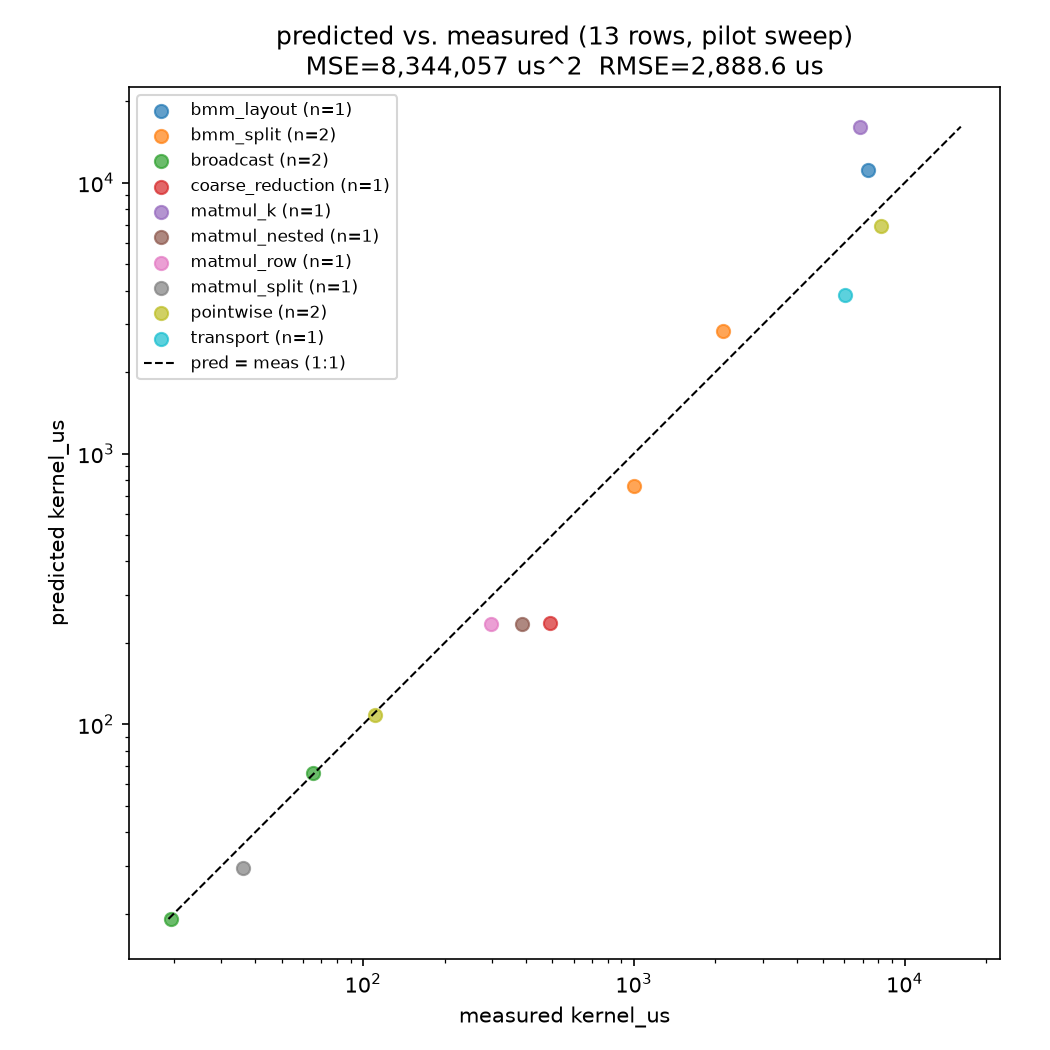
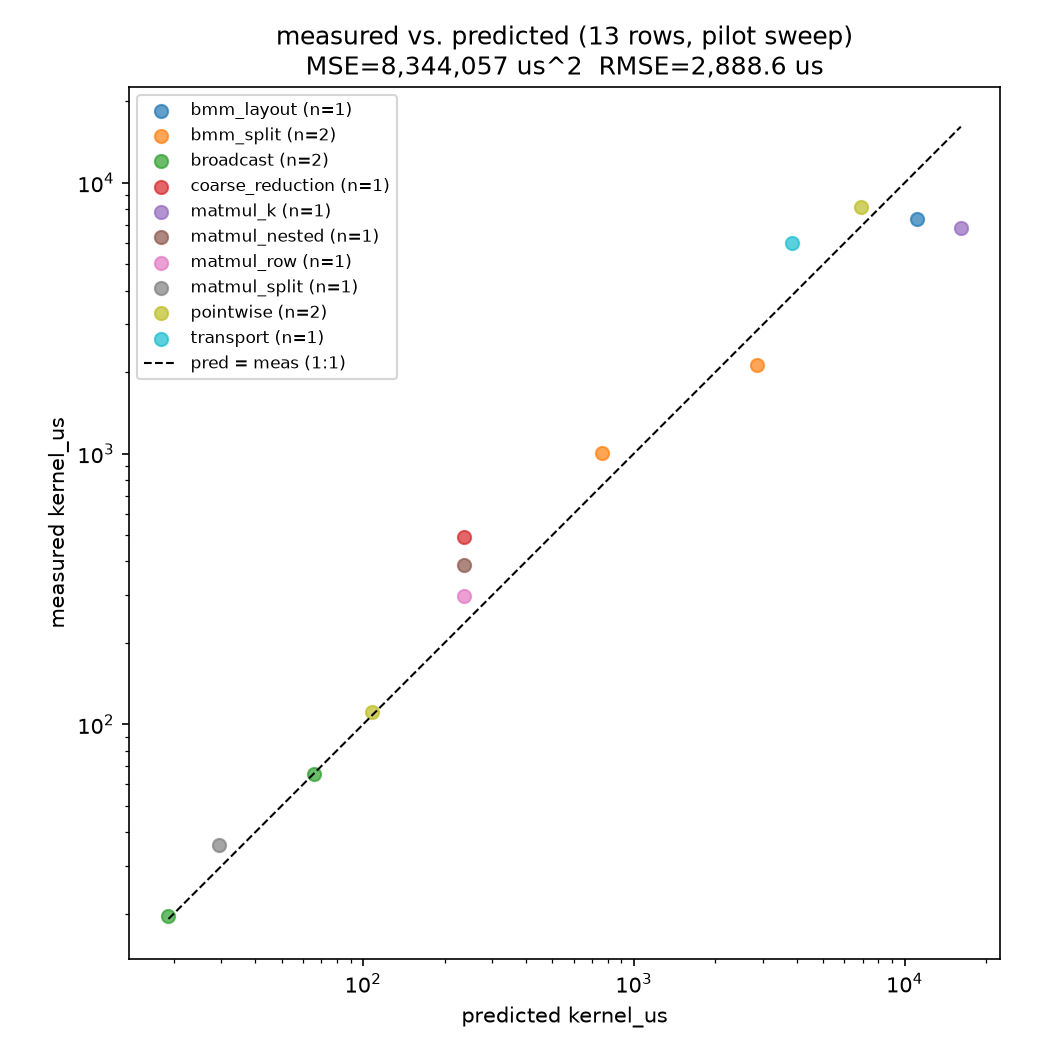
docs(compiler): swap plot axes, add open items, trim co_optimizer/cost_model overlap
- eval_model.py: swap --plot's axes so predicted is x, measured is y
  (previously the other way around), and regenerate the pilot-sweep
  example image to match.
- co_optimizer.md: add an "Open items on this measure/score/plot loop"
  subsection with four forward-looking notes, each verified against the
  code rather than asserted: sweep_plan.json has no coverage/weighting
  analysis (it's a dedup of whatever got historically measured, skewed
  toward mmwd at 281/1632 configs); landing coarse tiling's co-optimizer
  support won't automatically gain sweep coverage (checked directly
  against the pr-4767/4768/4456..4894 branches -- none touch the sweep
  tooling); a learned/MLP cost model is a clean, unexplored direction,
  weighed against the one related attempt the codebase already tried
  and rejected (an unstable fitted correction term, noted in
  cost_model.md's "Two limitations"); and no mechanism memoizes a
  co-optimizer solve across compiles today, distinct from kernel_cache.py
  (which hashes the already-resolved OpSpec/LoopSpec tree, not an input
  that could look a prior solve up).
- Trim co_optimizer.md's overlap with cost_model.md: the sweep-plan
  description and the RMS%-vs-MSE rationale were restating content
  cost_model.md already covers (its tool table, its Accuracy section's
  rank-correlation note) rather than adding a co-optimizer-specific
  angle. Replaced with a tighter pointer into cost_model.md's existing
[…]

diff --git a/tools/cost_model/eval_model.py b/tools/cost_model/eval_model.py
@@ -468,7 +468,7 @@ def plot_scatter(evaluated, out_path):
 
     by_cat = {}
     for r, pred, meas, _err, _src in evaluated:
-        by_cat.setdefault(category(r["op"]), []).append((meas, pred))
+        by_cat.setdefault(category(r["op"]), []).append((pred, meas))
 
     fig, ax = plt.subplots(figsize=(7, 7))
     for c in sorted(by_cat):
@@ -492,10 +492,10 @@ def plot_scatter(evaluated, out_path):
 
     ax.set_xscale("log")
     ax.set_yscale("log")
-    ax.set_xlabel("measured kernel_us")
-    ax.set_ylabel("predicted kernel_us")
+    ax.set_xlabel("predicted kernel_us")
+    ax.set_ylabel("measured kernel_us")
     ax.set_title(
-        f"predicted vs. measured ({len(evaluated)} rows)\nMSE={mse:,.0f} us^2  RMSE={rmse:,.1f} us"
+        f"measured vs. predicted ({len(evaluated)} rows)\nMSE={mse:,.0f} us^2  RMSE={rmse:,.1f} us"
     )
     ax.legend(fontsize=7, loc="upper left")
     ax.set_aspect("equal", adjustable="box")

diff --git a/docs/source/compiler/co_optimizer.md b/docs/source/compiler/co_optimizer.md
@@ -386,36 +386,18 @@ needing to know which flags produced it.
 ### Keeping the model honest: recalibrating against real hardware
 
 [Measuring, scoring and refreshing the model](cost_model.md#measuring-scoring-and-refreshing-the-model)
-is the real workflow this subsection builds on — read it first. In short: `profile_ops.py`
-measures one op under `torch.profiler` and prints a parseable summary; `run_cost_model_sweep.py`
-drives it over `tools/cost_model/sweep_plan.json`'s 1632 configurations and folds the result
-into `tools/cost_model/sweep_records.json` (not committed — it's measured device time, so it
-belongs to the machine and build that produced it); `tools/cost_model/eval_model.py` then
-scores any model version against that database with no hardware involved, reporting RMS% of
-relative error per op category (the table in
-[Accuracy](cost_model.md#accuracy): 5.0% for broadcast up to 29.8% for matmul-split).
+is the real workflow this subsection builds on — read it first for the full `profile_ops.py` →
+`run_cost_model_sweep.py` → `sweep_records.json` → `eval_model.py` pipeline, what
+`sweep_plan.json`'s 1632 configurations cover, and the [Accuracy](cost_model.md#accuracy)
+table (5.0% RMS for broadcast up to 29.8% for matmul-split). The co-optimizer adds nothing to
+that pipeline itself — it's the same model, same database, same scorer — so what follows is
+only the parts specific to using it from here: a visual complement to the RMS% table, and two
+co-optimizer-specific gaps the measure/score loop doesn't by itself cover (whether a forced
+hint is honored, and whether the sweep plan tracks what the co-optimizer actually needs).
 
-`sweep_plan.json` is a list of **environments, not measurements** — each entry is the
-`profile_ops.py` env-var invocation for one configuration (`BENCH_OP`, shape knobs like
-`BENCH_ROWS`/`BENCH_COLS`/`BENCH_N`/`BENCH_B`, `SENCORES`, coarse-tiling via `BENCH_TILES`/
-`LX_PLANNING`, and, where the kernel needs one, an explicit work-division or layout override
-via `WD_M`/`WD_N`/`WD_K`/`WD_B`/`WD_LAYOUT_A`/`WD_LAYOUT_B` or a flash-attention shape via
-`FA_H`/`FA_LQ`/`FA_LK`/`FA_D`). It spans around 40 distinct kernels across every category the
-accuracy table scores: pointwise (`add`, `neg`, `gelu`, broadcast variants), reductions
-(`sumrow`, `amax`, `mean`), transport (`copy`, `transpose`, `cat0`/`cat1`), softmax (plain,
-row-tiled, unrolled), and the matmul/bmm family under several work-division and coarse-tiling
-variants (`mmwd`, `matmul_row_tiling`, `bmm_wd`, `bmm_k_tiling`, …), plus a handful of flash-
-attention configurations. Being an environment list rather than a frozen measurement set means
-it is small, portable, and reproducible on new hardware or after a compiler change — re-running
-it is what regenerates `sweep_records.json` from scratch.
-
-That RMS%-of-relative-error metric is deliberately not a plain MSE in time units — a 5 µs error
-on a 10 µs kernel and a 500 µs error on a 1 ms kernel both read as the same 50%, which is what
-you want when the model is used to *rank* candidate plans against each other rather than to
-predict a wall-clock number (see Accuracy's note on rank correlation surviving the model's
-systematic under-prediction). `eval_model.py --plot <path.png>` adds the complementary view: a
-log-log scatter of predicted vs. measured `kernel_us`, one point per scored row, colored by
-category, with the 1:1 line and the overall MSE/RMSE **in time units** annotated —
+`eval_model.py --plot <path.png>` is that visual complement: a log-log scatter of predicted
+vs. measured `kernel_us`, one point per scored row, colored by category, with the 1:1 line and
+the overall MSE/RMSE **in time units** annotated —
 
 ```bash
 python3 tools/cost_model/eval_model.py --plot /tmp/before.png   # before a cost_model.py edit
@@ -468,6 +450,59 @@ without erroring. Fixed in `parse_sweep_logs.py` — new patterns match the curr
 run) when the older debug-only `op_it_space_splits` text isn't present. The parser now also
 warns on any row where the two disagree, so a hint that silently failed to take shows up as a
 loud warning instead of a quietly wrong measurement.
+
+#### Open items on this measure/score/plot loop
+
+- **Audit `sweep_plan.json`'s own coverage.** The plan is generated by deduplicating
+  whatever configurations happen to already have measurements
+  (`run_cost_model_sweep.py`'s `_configs()`, driven by `_env_from_record`) — there is no
+  code anywhere that checks the result for balance. The current skew (`mmwd` alone is 281
+  of 1632 configs; several categories in the [Accuracy](cost_model.md#accuracy) table rest
+  on a handful of rows) is therefore an artifact of what got measured historically, not a
+  deliberate weighting choice. Before leaning on the per-category RMS% numbers for a real
+  decision, re-derive what coverage and weighting the model actually *needs* — per
+  category, per shape range, per core count — and check the plan against that, rather than
+  assuming today's distribution reflects anyone's intent.
+- **New co-optimized axes need their own sweep configs, deliberately added.** Landing
+  coarse tiling's solver-chosen search (the CP-SAT `predict_frame`/`pr-4767`/`pr-4768` and
+  SA `pr-4456` through `pr-4894` stacks described above) will not automatically get swept: checked
+  directly against those branches, none of them touch `profile_ops.py`,
+  `tools/cost_model/sweep_plan.json`, or `eval_model.py` — the new tiling-candidate
+  machinery has no sweep knob of its own yet, the same way `WD_M`/`WD_N`/`WD_K` is `mmwd`'s
+  knob for forced work-division splits today. Combined with the point above (no automatic
+  coverage check), a new optimization axis landing without a deliberate sweep-plan update
+  is a real way for that axis's prediction accuracy to go unmeasured indefinitely rather
+  than loudly missing.
+- **Could the model tune itself?** Today, fitting is manual: someone reads
+  `eval_model.py`'s RMS% table and `--plot` scatter, forms a hypothesis, edits a constant
+  or term in `cost_model.py`, and re-scores. Every constant in `CostParams` already carries
+  its own fitting provenance in the module docstring (e.g. `alpha ~0.00574 ns/byte,
+  calibrated so a balanced 1R+1W read lands at its measured ~105 GB/s effective`) — that
+  record-keeping discipline is worth preserving in whatever replaces manual tuning. One
+  direction: evolve the closed-form model into a small learned one (e.g. an MLP over the
+  same `OpFeatures` fields) fit by SGD/backprop against `sweep_records.json`'s measured
+  `kernel_us` directly, instead of hand-deriving each term. Worth weighing against the one
+  related attempt already in the file's history: an empirical correction term for the
+  `max(compute, memory)` under-charge was fitted and then **removed rather than shipped**
+  because its fitted value proved unstable across populations (`cost_model.md`'s
+  [Two limitations worth knowing](cost_model.md#two-limitations-worth-knowing)) — a learned
+  model trades interpretable, individually-justified constants for exactly this kind of
+  population-dependent fit, so the same instability risk would need to be addressed (e.g.
+  held-out validation across categories, not just an aggregate RMS%) before trusting it
+  over the current closed form.
+- **Nothing memoizes a co-optimizer solve across compiles.** Every `torch.compile` that
+  reaches `CoOptimizingAllocator` runs a full CP-SAT solve or SA anneal from scratch, even
+  for a graph shape the search has already solved before. The caching that does exist
+  (`torch_spyre/execution/kernel_cache.py`) is a different thing: its hash
+  (`compute_specs_hash`) covers the *already-resolved* `OpSpec`/`LoopSpec` tree — the
+  solver's output, not an input that could look a prior solve up — so it only skips
+  recompiling an identical finished plan, never the search that produced it. A real
+  "memorize the optimum" layer would need a cache keyed on something available *before* the
+  solve (the graph's iteration-space shape and candidate menus, not the committed division),
+  checked against a cache before `plan_layout_and_core_divisions` runs, with a defined
+  policy for a near-but-not-exact shape match (reuse as a warm start vs. require an exact
+  key). No such layer, warm-start or otherwise, exists today in `allocator.py`,
+  `ilp_solver_ortools.py`, or `sa_cooptimizer.py`.
 
 ## Ongoing work
 

diff --git a/docs/source/compiler/cost_model.md b/docs/source/compiler/cost_model.md
@@ -393,7 +393,7 @@ checkout builds its own database from zero:
 ```bash
 python3 docs/source/user_guide/examples/run_cost_model_sweep.py --dry-run   # what it would run
 python3 docs/source/user_guide/examples/run_cost_model_sweep.py --limit 20  # a timed pilot
-python3 docs/source/user_guide/examples/run_cost_model_sweep.py             # 1535 configurations
+python3 docs/source/user_guide/examples/run_cost_model_sweep.py             # 1632 configurations
 python3 tools/cost_model/eval_model.py                                      # score, no hardware
 ```
 
